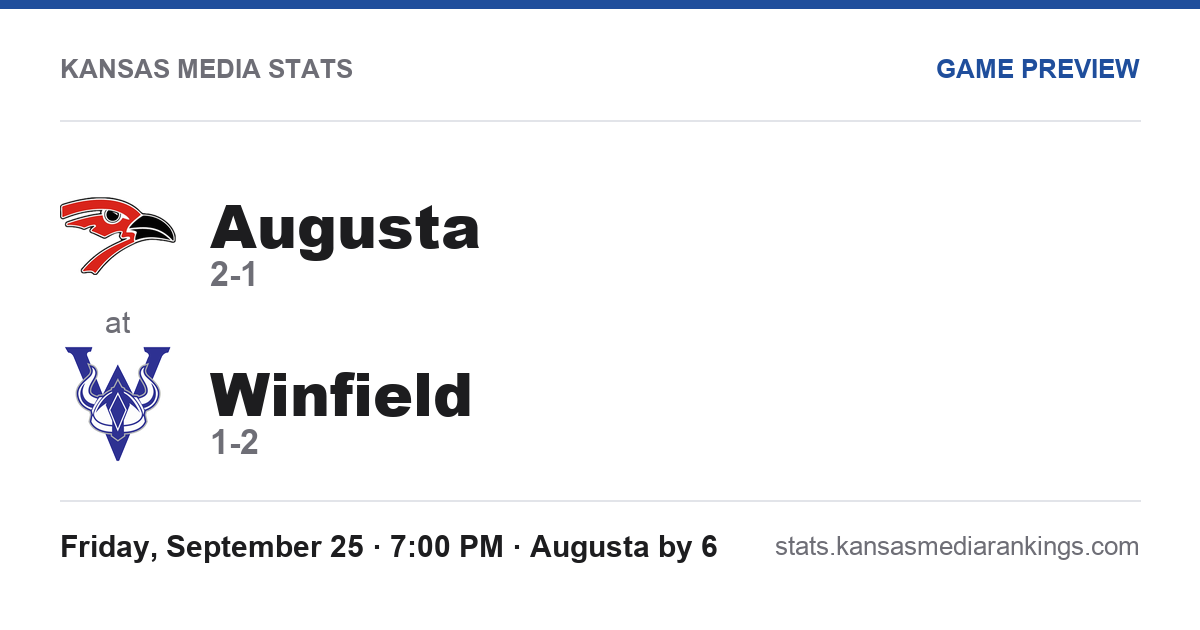
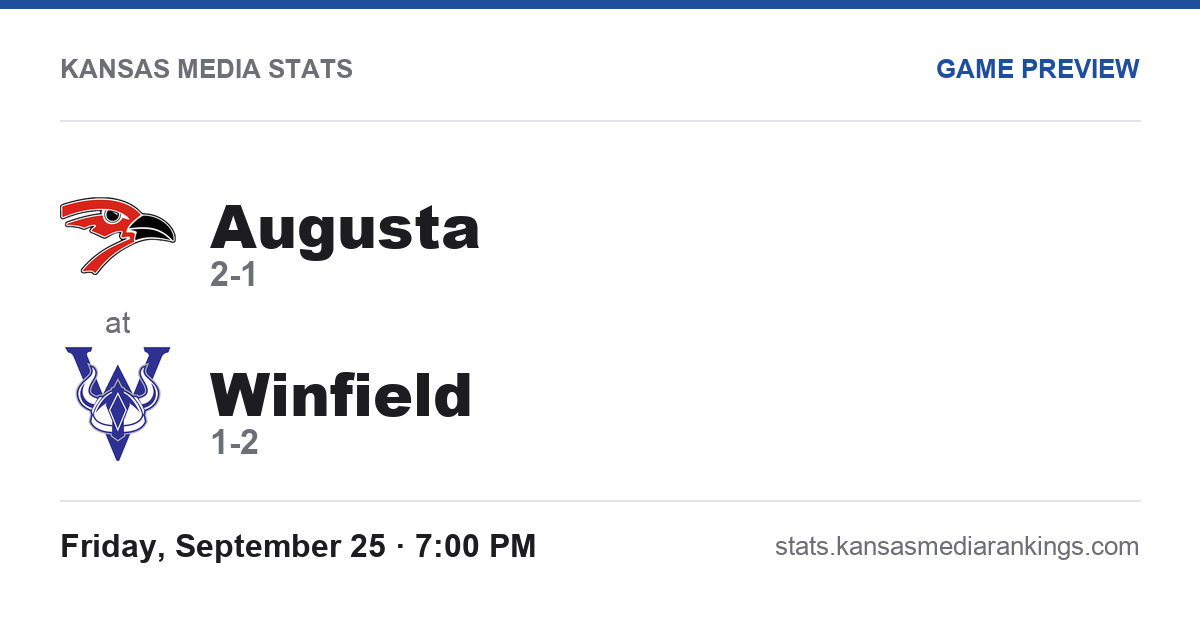
Take the point spread off the preview cards

Changed region(s): [[0.0617, 0.8444, 0.6167, 0.9048]]

diff --git a/pv/kps26-2026-09-25-andover-central-maize-south/index.html b/pv/kps26-2026-09-25-andover-central-maize-south/index.html
@@ -1,18 +1,18 @@
 <!doctype html>
 <html lang="en"><head><meta charset="utf-8">
 <title>Andover Central at Maize South · Preview · Kansas Media Stats</title>
-<meta name="description" content="Friday, September 25 · 7:00 PM · Maize South by 0.5 · Records, the matchup predictor and the series, on Kansas Media Stats">
+<meta name="description" content="Friday, September 25 · 7:00 PM · Records, the matchup predictor and the series, on Kansas Media Stats">
 <meta property="og:type" content="website">
 <meta property="og:site_name" content="Kansas Media Stats">
 <meta property="og:title" content="Andover Central at Maize South">
-<meta property="og:description" content="Friday, September 25 · 7:00 PM · Maize South by 0.5 · Records, the matchup predictor and the series, on Kansas Media Stats">
+<meta property="og:description" content="Friday, September 25 · 7:00 PM · Records, the matchup predictor and the series, on Kansas Media Stats">
 <meta property="og:url" content="https://stats.kansasmediarankings.com/pv/kps26-2026-09-25-andover-central-maize-south/">
 <meta property="og:image" content="https://stats.kansasmediarankings.com/pv/kps26-2026-09-25-andover-central-maize-south/card.png">
 <meta property="og:image:width" content="1200">
 <meta property="og:image:height" content="630">
 <meta name="twitter:card" content="summary_large_image">
 <meta name="twitter:title" content="Andover Central at Maize South">
-<meta name="twitter:description" content="Friday, September 25 · 7:00 PM · Maize South by 0.5 · Records, the matchup predictor and the series, on Kansas Media Stats">
+<meta name="twitter:description" content="Friday, September 25 · 7:00 PM · Records, the matchup predictor and the series, on Kansas Media Stats">
 <meta name="twitter:image" content="https://stats.kansasmediarankings.com/pv/kps26-2026-09-25-andover-central-maize-south/card.png">
 <link rel="canonical" href="https://stats.kansasmediarankings.com/pv/kps26-2026-09-25-andover-central-maize-south/">
 <meta http-equiv="refresh" content="0; url=/?preview=kps26-2026-09-25-andover-central-maize-south">

diff --git a/pv/kps26-2026-09-25-el-dorado-wellington/index.html b/pv/kps26-2026-09-25-el-dorado-wellington/index.html
@@ -1,18 +1,18 @@
 <!doctype html>
 <html lang="en"><head><meta charset="utf-8">
 <title>El Dorado at Wellington · Preview · Kansas Media Stats</title>
-<meta name="description" content="Friday, September 25 · 7:00 PM · Wellington by 43.5 · Records, the matchup predictor and the series, on Kansas Media Stats">
+<meta name="description" content="Friday, September 25 · 7:00 PM · Records, the matchup predictor and the series, on Kansas Media Stats">
 <meta property="og:type" content="website">
 <meta property="og:site_name" content="Kansas Media Stats">
 <meta property="og:title" content="El Dorado at Wellington">
-<meta property="og:description" content="Friday, September 25 · 7:00 PM · Wellington by 43.5 · Records, the matchup predictor and the series, on Kansas Media Stats">
+<meta property="og:description" content="Friday, September 25 · 7:00 PM · Records, the matchup predictor and the series, on Kansas Media Stats">
 <meta property="og:url" content="https://stats.kansasmediarankings.com/pv/kps26-2026-09-25-el-dorado-wellington/">
 <meta property="og:image" content="https://stats.kansasmediarankings.com/pv/kps26-2026-09-25-el-dorado-wellington/card.png">
 <meta property="og:image:width" content="1200">
 <meta property="og:image:height" content="630">
 <meta name="twitter:card" content="summary_large_image">
 <meta name="twitter:title" content="El Dorado at Wellington">
-<meta name="twitter:description" content="Friday, September 25 · 7:00 PM · Wellington by 43.5 · Records, the matchup predictor and the series, on Kansas Media Stats">
+<meta name="twitter:description" content="Friday, September 25 · 7:00 PM · Records, the matchup predictor and the series, on Kansas Media Stats">
 <meta name="twitter:image" content="https://stats.kansasmediarankings.com/pv/kps26-2026-09-25-el-dorado-wellington/card.png">
 <link rel="canonical" href="https://stats.kansasmediarankings.com/pv/kps26-2026-09-25-el-dorado-wellington/">
 <meta http-equiv="refresh" content="0; url=/?preview=kps26-2026-09-25-el-dorado-wellington">

diff --git a/pv/kps26-2026-09-25-arkansas-city-andover/index.html b/pv/kps26-2026-09-25-arkansas-city-andover/index.html
@@ -1,18 +1,18 @@
 <!doctype html>
 <html lang="en"><head><meta charset="utf-8">
 <title>Arkansas City at Andover · Preview · Kansas Media Stats</title>
-<meta name="description" content="Friday, September 25 · 7:00 PM · Andover by 23 · Records, the matchup predictor and the series, on Kansas Media Stats">
+<meta name="description" content="Friday, September 25 · 7:00 PM · Records, the matchup predictor and the series, on Kansas Media Stats">
 <meta property="og:type" content="website">
 <meta property="og:site_name" content="Kansas Media Stats">
 <meta property="og:title" content="Arkansas City at Andover">
-<meta property="og:description" content="Friday, September 25 · 7:00 PM · Andover by 23 · Records, the matchup predictor and the series, on Kansas Media Stats">
+<meta property="og:description" content="Friday, September 25 · 7:00 PM · Records, the matchup predictor and the series, on Kansas Media Stats">
 <meta property="og:url" content="https://stats.kansasmediarankings.com/pv/kps26-2026-09-25-arkansas-city-andover/">
 <meta property="og:image" content="https://stats.kansasmediarankings.com/pv/kps26-2026-09-25-arkansas-city-andover/card.png">
 <meta property="og:image:width" content="1200">
 <meta property="og:image:height" content="630">
 <meta name="twitter:card" content="summary_large_image">
 <meta name="twitter:title" content="Arkansas City at Andover">
-<meta name="twitter:description" content="Friday, September 25 · 7:00 PM · Andover by 23 · Records, the matchup predictor and the series, on Kansas Media Stats">
+<meta name="twitter:description" content="Friday, September 25 · 7:00 PM · Records, the matchup predictor and the series, on Kansas Media Stats">
 <meta name="twitter:image" content="https://stats.kansasmediarankings.com/pv/kps26-2026-09-25-arkansas-city-andover/card.png">
 <link rel="canonical" href="https://stats.kansasmediarankings.com/pv/kps26-2026-09-25-arkansas-city-andover/">
 <meta http-equiv="refresh" content="0; url=/?preview=kps26-2026-09-25-arkansas-city-andover">

diff --git a/pv/kps26-2026-09-25-remington-hillsboro/index.html b/pv/kps26-2026-09-25-remington-hillsboro/index.html
@@ -1,18 +1,18 @@
 <!doctype html>
 <html lang="en"><head><meta charset="utf-8">
 <title>Remington at Hillsboro · Preview · Kansas Media Stats</title>
-<meta name="description" content="Friday, September 25 · 7:00 PM · Hillsboro by 18.5 · Records, the matchup predictor and the series, on Kansas Media Stats">
+<meta name="description" content="Friday, September 25 · 7:00 PM · Records, the matchup predictor and the series, on Kansas Media Stats">
 <meta property="og:type" content="website">
 <meta property="og:site_name" content="Kansas Media Stats">
 <meta property="og:title" content="Remington at Hillsboro">
-<meta property="og:description" content="Friday, September 25 · 7:00 PM · Hillsboro by 18.5 · Records, the matchup predictor and the series, on Kansas Media Stats">
+<meta property="og:description" content="Friday, September 25 · 7:00 PM · Records, the matchup predictor and the series, on Kansas Media Stats">
 <meta property="og:url" content="https://stats.kansasmediarankings.com/pv/kps26-2026-09-25-remington-hillsboro/">
 <meta property="og:image" content="https://stats.kansasmediarankings.com/pv/kps26-2026-09-25-remington-hillsboro/card.png">
 <meta property="og:image:width" content="1200">
 <meta property="og:image:height" content="630">
 <meta name="twitter:card" content="summary_large_image">
 <meta name="twitter:title" content="Remington at Hillsboro">
-<meta name="twitter:description" content="Friday, September 25 · 7:00 PM · Hillsboro by 18.5 · Records, the matchup predictor and the series, on Kansas Media Stats">
+<meta name="twitter:description" content="Friday, September 25 · 7:00 PM · Records, the matchup predictor and the series, on Kansas Media Stats">
 <meta name="twitter:image" content="https://stats.kansasmediarankings.com/pv/kps26-2026-09-25-remington-hillsboro/card.png">
 <link rel="canonical" href="https://stats.kansasmediarankings.com/pv/kps26-2026-09-25-remington-hillsboro/">
 <meta http-equiv="refresh" content="0; url=/?preview=kps26-2026-09-25-remington-hillsboro">

diff --git a/pv/kps26-2026-09-25-rose-hill-chanute/index.html b/pv/kps26-2026-09-25-rose-hill-chanute/index.html
@@ -1,18 +1,18 @@
 <!doctype html>
 <html lang="en"><head><meta charset="utf-8">
 <title>Rose Hill at Chanute · Preview · Kansas Media Stats</title>
-<meta name="description" content="Friday, September 25 · 7:00 PM · Rose Hill by 2.5 · Records, the matchup predictor and the series, on Kansas Media Stats">
+<meta name="description" content="Friday, September 25 · 7:00 PM · Records, the matchup predictor and the series, on Kansas Media Stats">
 <meta property="og:type" content="website">
 <meta property="og:site_name" content="Kansas Media Stats">
 <meta property="og:title" content="Rose Hill at Chanute">
-<meta property="og:description" content="Friday, September 25 · 7:00 PM · Rose Hill by 2.5 · Records, the matchup predictor and the series, on Kansas Media Stats">
+<meta property="og:description" content="Friday, September 25 · 7:00 PM · Records, the matchup predictor and the series, on Kansas Media Stats">
 <meta property="og:url" content="https://stats.kansasmediarankings.com/pv/kps26-2026-09-25-rose-hill-chanute/">
 <meta property="og:image" content="https://stats.kansasmediarankings.com/pv/kps26-2026-09-25-rose-hill-chanute/card.png">
 <meta property="og:image:width" content="1200">
 <meta property="og:image:height" content="630">
 <meta name="twitter:card" content="summary_large_image">
 <meta name="twitter:title" content="Rose Hill at Chanute">
-<meta name="twitter:description" content="Friday, September 25 · 7:00 PM · Rose Hill by 2.5 · Records, the matchup predictor and the series, on Kansas Media Stats">
+<meta name="twitter:description" content="Friday, September 25 · 7:00 PM · Records, the matchup predictor and the series, on Kansas Media Stats">
 <meta name="twitter:image" content="https://stats.kansasmediarankings.com/pv/kps26-2026-09-25-rose-hill-chanute/card.png">
 <link rel="canonical" href="https://stats.kansasmediarankings.com/pv/kps26-2026-09-25-rose-hill-chanute/">
 <meta http-equiv="refresh" content="0; url=/?preview=kps26-2026-09-25-rose-hill-chanute">

diff --git a/pv/kps26-2026-09-25-circle-mcpherson/index.html b/pv/kps26-2026-09-25-circle-mcpherson/index.html
@@ -1,18 +1,18 @@
 <!doctype html>
 <html lang="en"><head><meta charset="utf-8">
 <title>Circle at McPherson · Preview · Kansas Media Stats</title>
-<meta name="description" content="Friday, September 25 · 7:00 PM · McPherson by 34 · Records, the matchup predictor and the series, on Kansas Media Stats">
+<meta name="description" content="Friday, September 25 · 7:00 PM · Records, the matchup predictor and the series, on Kansas Media Stats">
 <meta property="og:type" content="website">
 <meta property="og:site_name" content="Kansas Media Stats">
 <meta property="og:title" content="Circle at McPherson">
-<meta property="og:description" content="Friday, September 25 · 7:00 PM · McPherson by 34 · Records, the matchup predictor and the series, on Kansas Media Stats">
+<meta property="og:description" content="Friday, September 25 · 7:00 PM · Records, the matchup predictor and the series, on Kansas Media Stats">
 <meta property="og:url" content="https://stats.kansasmediarankings.com/pv/kps26-2026-09-25-circle-mcpherson/">
 <meta property="og:image" content="https://stats.kansasmediarankings.com/pv/kps26-2026-09-25-circle-mcpherson/card.png">
 <meta property="og:image:width" content="1200">
 <meta property="og:image:height" content="630">
 <meta name="twitter:card" content="summary_large_image">
 <meta name="twitter:title" content="Circle at McPherson">
-<meta name="twitter:description" content="Friday, September 25 · 7:00 PM · McPherson by 34 · Records, the matchup predictor and the series, on Kansas Media Stats">
+<meta name="twitter:description" content="Friday, September 25 · 7:00 PM · Records, the matchup predictor and the series, on Kansas Media Stats">
 <meta name="twitter:image" content="https://stats.kansasmediarankings.com/pv/kps26-2026-09-25-circle-mcpherson/card.png">
 <link rel="canonical" href="https://stats.kansasmediarankings.com/pv/kps26-2026-09-25-circle-mcpherson/">
 <meta http-equiv="refresh" content="0; url=/?preview=kps26-2026-09-25-circle-mcpherson">

diff --git a/pv/kps26-2026-09-25-augusta-winfield/index.html b/pv/kps26-2026-09-25-augusta-winfield/index.html
@@ -1,18 +1,18 @@
 <!doctype html>
 <html lang="en"><head><meta charset="utf-8">
 <title>Augusta at Winfield · Preview · Kansas Media Stats</title>
-<meta name="description" content="Friday, September 25 · 7:00 PM · Augusta by 6 · Records, the matchup predictor and the series, on Kansas Media Stats">
+<meta name="description" content="Friday, September 25 · 7:00 PM · Records, the matchup predictor and the series, on Kansas Media Stats">
 <meta property="og:type" content="website">
 <meta property="og:site_name" content="Kansas Media Stats">
 <meta property="og:title" content="Augusta at Winfield">
-<meta property="og:description" content="Friday, September 25 · 7:00 PM · Augusta by 6 · Records, the matchup predictor and the series, on Kansas Media Stats">
+<meta property="og:description" content="Friday, September 25 · 7:00 PM · Records, the matchup predictor and the series, on Kansas Media Stats">
 <meta property="og:url" content="https://stats.kansasmediarankings.com/pv/kps26-2026-09-25-augusta-winfield/">
 <meta property="og:image" content="https://stats.kansasmediarankings.com/pv/kps26-2026-09-25-augusta-winfield/card.png">
 <meta property="og:image:width" content="1200">
 <meta property="og:image:height" content="630">
 <meta name="twitter:card" content="summary_large_image">
 <meta name="twitter:title" content="Augusta at Winfield">
-<meta name="twitter:description" content="Friday, September 25 · 7:00 PM · Augusta by 6 · Records, the matchup predictor and the series, on Kansas Media Stats">
+<meta name="twitter:description" content="Friday, September 25 · 7:00 PM · Records, the matchup predictor and the series, on Kansas Media Stats">
 <meta name="twitter:image" content="https://stats.kansasmediarankings.com/pv/kps26-2026-09-25-augusta-winfield/card.png">
 <link rel="canonical" href="https://stats.kansasmediarankings.com/pv/kps26-2026-09-25-augusta-winfield/">
 <meta http-equiv="refresh" content="0; url=/?preview=kps26-2026-09-25-augusta-winfield">

diff --git a/pv/kps26-2026-09-25-bluestem-eureka/index.html b/pv/kps26-2026-09-25-bluestem-eureka/index.html
@@ -1,18 +1,18 @@
 <!doctype html>
 <html lang="en"><head><meta charset="utf-8">
 <title>Bluestem at Eureka · Preview · Kansas Media Stats</title>
-<meta name="description" content="Friday, September 25 · 7:00 PM · Eureka by 12.5 · Records, the matchup predictor and the series, on Kansas Media Stats">
+<meta name="description" content="Friday, September 25 · 7:00 PM · Records, the matchup predictor and the series, on Kansas Media Stats">
 <meta property="og:type" content="website">
 <meta property="og:site_name" content="Kansas Media Stats">
 <meta property="og:title" content="Bluestem at Eureka">
-<meta property="og:description" content="Friday, September 25 · 7:00 PM · Eureka by 12.5 · Records, the matchup predictor and the series, on Kansas Media Stats">
+<meta property="og:description" content="Friday, September 25 · 7:00 PM · Records, the matchup predictor and the series, on Kansas Media Stats">
 <meta property="og:url" content="https://stats.kansasmediarankings.com/pv/kps26-2026-09-25-bluestem-eureka/">
 <meta property="og:image" content="https://stats.kansasmediarankings.com/pv/kps26-2026-09-25-bluestem-eureka/card.png">
 <meta property="og:image:width" content="1200">
 <meta property="og:image:height" content="630">
 <meta name="twitter:card" content="summary_large_image">
 <meta name="twitter:title" content="Bluestem at Eureka">
-<meta name="twitter:description" content="Friday, September 25 · 7:00 PM · Eureka by 12.5 · Records, the matchup predictor and the series, on Kansas Media Stats">
+<meta name="twitter:description" content="Friday, September 25 · 7:00 PM · Records, the matchup predictor and the series, on Kansas Media Stats">
 <meta name="twitter:image" content="https://stats.kansasmediarankings.com/pv/kps26-2026-09-25-bluestem-eureka/card.png">
 <link rel="canonical" href="https://stats.kansasmediarankings.com/pv/kps26-2026-09-25-bluestem-eureka/">
 <meta http-equiv="refresh" content="0; url=/?preview=kps26-2026-09-25-bluestem-eureka">

diff --git a/pv/kps26-2026-09-25-flinthills-sedan/index.html b/pv/kps26-2026-09-25-flinthills-sedan/index.html
@@ -1,18 +1,18 @@
 <!doctype html>
 <html lang="en"><head><meta charset="utf-8">
 <title>Flinthills at Sedan · Preview · Kansas Media Stats</title>
-<meta name="description" content="Friday, September 25 · 7:00 PM · Sedan by 7 · Records, the matchup predictor and the series, on Kansas Media Stats">
+<meta name="description" content="Friday, September 25 · 7:00 PM · Records, the matchup predictor and the series, on Kansas Media Stats">
 <meta property="og:type" content="website">
 <meta property="og:site_name" content="Kansas Media Stats">
 <meta property="og:title" content="Flinthills at Sedan">
-<meta property="og:description" content="Friday, September 25 · 7:00 PM · Sedan by 7 · Records, the matchup predictor and the series, on Kansas Media Stats">
+<meta property="og:description" content="Friday, September 25 · 7:00 PM · Records, the matchup predictor and the series, on Kansas Media Stats">
 <meta property="og:url" content="https://stats.kansasmediarankings.com/pv/kps26-2026-09-25-flinthills-sedan/">
 <meta property="og:image" content="https://stats.kansasmediarankings.com/pv/kps26-2026-09-25-flinthills-sedan/card.png">
 <meta property="og:image:width" content="1200">
 <meta property="og:image:height" content="630">
 <meta name="twitter:card" content="summary_large_image">
 <meta name="twitter:title" content="Flinthills at Sedan">
-<meta name="twitter:description" content="Friday, September 25 · 7:00 PM · Sedan by 7 · Records, the matchup predictor and the series, on Kansas Media Stats">
+<meta name="twitter:description" content="Friday, September 25 · 7:00 PM · Records, the matchup predictor and the series, on Kansas Media Stats">
 <meta name="twitter:image" content="https://stats.kansasmediarankings.com/pv/kps26-2026-09-25-flinthills-sedan/card.png">
 <link rel="canonical" href="https://stats.kansasmediarankings.com/pv/kps26-2026-09-25-flinthills-sedan/">
 <meta http-equiv="refresh" content="0; url=/?preview=kps26-2026-09-25-flinthills-sedan">

diff --git a/pv/kps26-2026-09-25-douglass-haven/index.html b/pv/kps26-2026-09-25-douglass-haven/index.html
@@ -1,18 +1,18 @@
 <!doctype html>
 <html lang="en"><head><meta charset="utf-8">
 <title>Douglass at Haven · Preview · Kansas Media Stats</title>
-<meta name="description" content="Friday, September 25 · 7:00 PM · Haven by 20 · Records, the matchup predictor and the series, on Kansas Media Stats">
+<meta name="description" content="Friday, September 25 · 7:00 PM · Records, the matchup predictor and the series, on Kansas Media Stats">
 <meta property="og:type" content="website">
 <meta property="og:site_name" content="Kansas Media Stats">
 <meta property="og:title" content="Douglass at Haven">
-<meta property="og:description" content="Friday, September 25 · 7:00 PM · Haven by 20 · Records, the matchup predictor and the series, on Kansas Media Stats">
+<meta property="og:description" content="Friday, September 25 · 7:00 PM · Records, the matchup predictor and the series, on Kansas Media Stats">
 <meta property="og:url" content="https://stats.kansasmediarankings.com/pv/kps26-2026-09-25-douglass-haven/">
 <meta property="og:image" content="https://stats.kansasmediarankings.com/pv/kps26-2026-09-25-douglass-haven/card.png">
 <meta property="og:image:width" content="1200">
 <meta property="og:image:height" content="630">
 <meta name="twitter:card" content="summary_large_image">
 <meta name="twitter:title" content="Douglass at Haven">
-<meta name="twitter:description" content="Friday, September 25 · 7:00 PM · Haven by 20 · Records, the matchup predictor and the series, on Kansas Media Stats">
+<meta name="twitter:description" content="Friday, September 25 · 7:00 PM · Records, the matchup predictor and the series, on Kansas Media Stats">
 <meta name="twitter:image" content="https://stats.kansasmediarankings.com/pv/kps26-2026-09-25-douglass-haven/card.png">
 <link rel="canonical" href="https://stats.kansasmediarankings.com/pv/kps26-2026-09-25-douglass-haven/">
 <meta http-equiv="refresh" content="0; url=/?preview=kps26-2026-09-25-douglass-haven">

diff --git a/.github/pregames.py b/.github/pregames.py
@@ -1,11 +1,10 @@
 """A link card for every game on the schedule that hasn't been played yet.
 
 Where g/<id>/ is the card a finished game shows, pv/<id>/ is the card the week ahead shows: the two schools
-with their logos and records, when they kick off, and this site's own line. Opening the link goes on to the
-pregame page (/?preview=<id>), which has the predictor, the leaders and the series.
+with their logos and records and when they kick off. No line: the card is a billboard, not a betting sheet.
+Opening the link goes on to the pregame page (/?preview=<id>), which has the predictor, the leaders and the series.
 
-The games come from schedule.json (KPreps' statewide schedule) and the line from ratings.json, worked out the
-same way the site's ourLine() does it. Run it for one week's games:
+The games come from schedule.json, KPreps' statewide schedule. Run it for one week's games:
 
     python3 .github/pregames.py 2026-09-25               every game that Friday
     python3 .github/pregames.py 2026-09-25 --county butler
@@ -43,16 +42,6 @@ def records(games):
     return {s: f'{r[0]}-{r[1]}' + (f'-{r[2]}' if r[2] else '') for s, r in rec.items()}
 
 
-def line_of(rat, away, home):
-    """What the site's own ratings make of the game: (favorite name, points), home team's side first."""
-    a, h = rat['teams'].get(away), rat['teams'].get(home)
-    if not a or not h or a['group'] != h['group']: return None
-    g = rat['groups'][h['group']]
-    hp = g['mu'] + h['off'] + a['def'] + g['hfa'] / 2
-    ap = g['mu'] + a['off'] + h['def'] - g['hfa'] / 2
-    return round((hp - ap) * 2) / 2
-
-
 def when_of(d):
     y, m, dy = map(int, d.split('-'))
     return date(y, m, dy).strftime('%A, %B %-d')
@@ -76,7 +65,7 @@ def draw(g, path):
     d.text((118, 178 + 144), 'at', font=cards.font('reg', 30), fill=MUTE, anchor='mm')
 
     d.line([(60, H - 130), (W - 60, H - 130)], fill=LINE, width=2)
-    foot = ' · '.join(x for x in (g['when'], '7:00 PM', g.get('line')) if x)
+    foot = f"{g['when']} · 7:00 PM"
     d.text((60, H - 84), foot, font=cards.fit(d, foot, 'bold', 32, W - 60 - 470), fill=INK, anchor='lm')
     d.text((W - 60, H - 84), 'stats.kansasmediarankings.com', font=cards.font('reg', 26), fill=MUTE, anchor='rm')
 
@@ -86,8 +75,7 @@ def draw(g, path):
 
 def page(g):
     t = html.escape(f"{g['an']} at {g['hn']}", quote=True)
-    bits = [g['when'], '7:00 PM'] + ([g['line']] if g.get('line') else [])
-    d = html.escape(' · '.join(bits) + ' · Records, the matchup predictor and the series, on Kansas Media Stats', quote=True)
+    d = html.escape(f"{g['when']} · 7:00 PM · Records, the matchup predictor and the series, on Kansas Media Stats", quote=True)
     here = f"{SITE}/pv/{g['id']}/"
     go = f"/?preview={html.escape(g['id'], quote=True)}"
     return f'''<!doctype html>
@@ -116,17 +104,13 @@ def page(g):
 def build(days, only=None, prune=True):
     """days: the dates to cover ('2026-09-25'). only: slugs at least one side must be, or None for every game."""
     sched = read('schedule.json')['games']
-    rat = read('ratings.json')
     rec = records(sched)
     keep, made = set(), 0
     for g in sched:
         if g['d'] not in days: continue
         if g.get('hp') is not None and g.get('ap') is not None: continue   # already played
         if only and g['h'] not in only and g['a'] not in only: continue
-        sp = line_of(rat, g['a'], g['h'])
-        row = dict(g, arec=rec.get(g['a'], ''), hrec=rec.get(g['h'], ''), when=when_of(g['d']),
-                   line=None if sp is None else 'Pick ’em' if sp == 0 else
-                        f"{g['hn'] if sp > 0 else g['an']} by {abs(sp):g}")
+        row = dict(g, arec=rec.get(g['a'], ''), hrec=rec.get(g['h'], ''), when=when_of(g['d']))
         folder = os.path.join(OUT, g['id'])
         os.makedirs(folder, exist_ok=True)
         with open(os.path.join(folder, 'index.html'), 'w', encoding='utf-8') as f:
